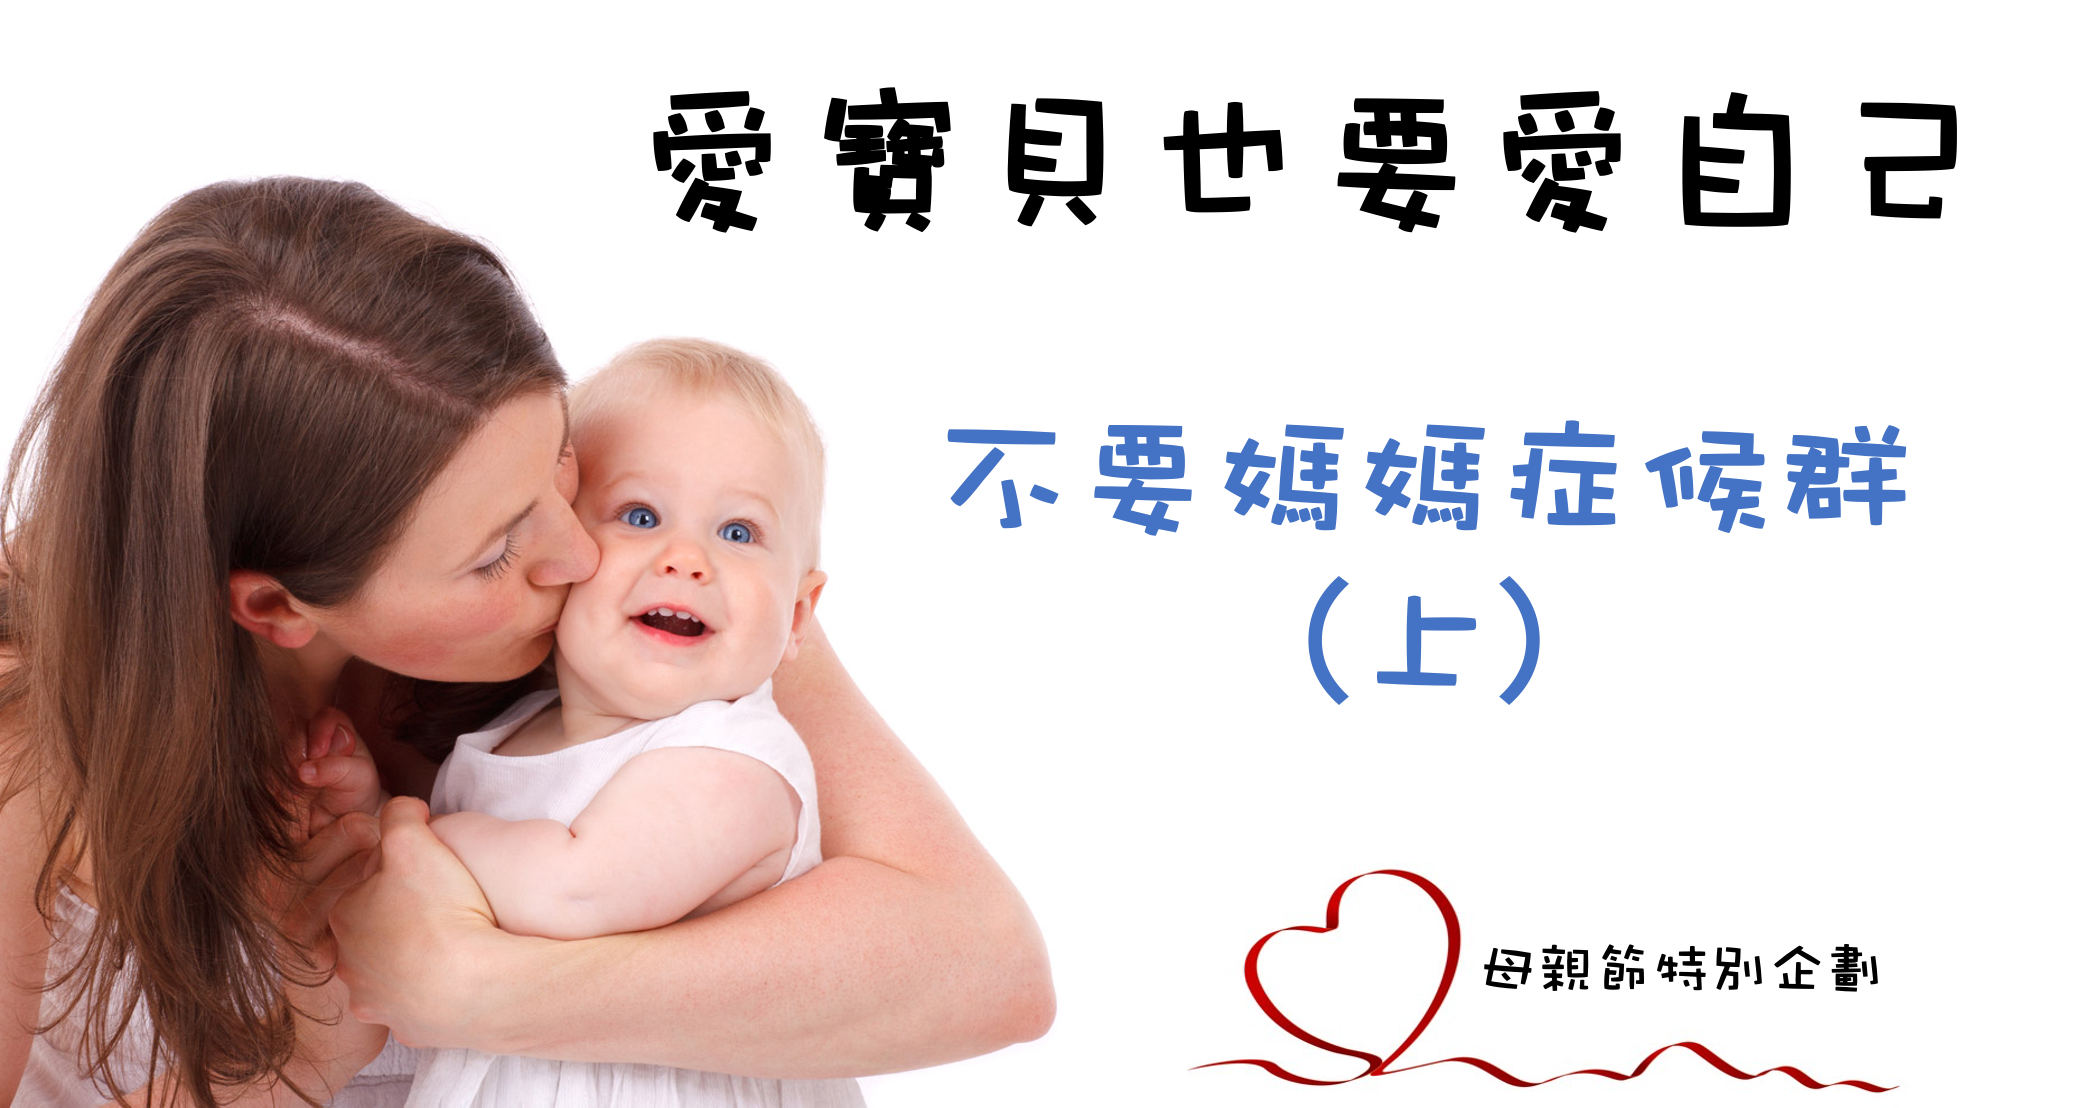
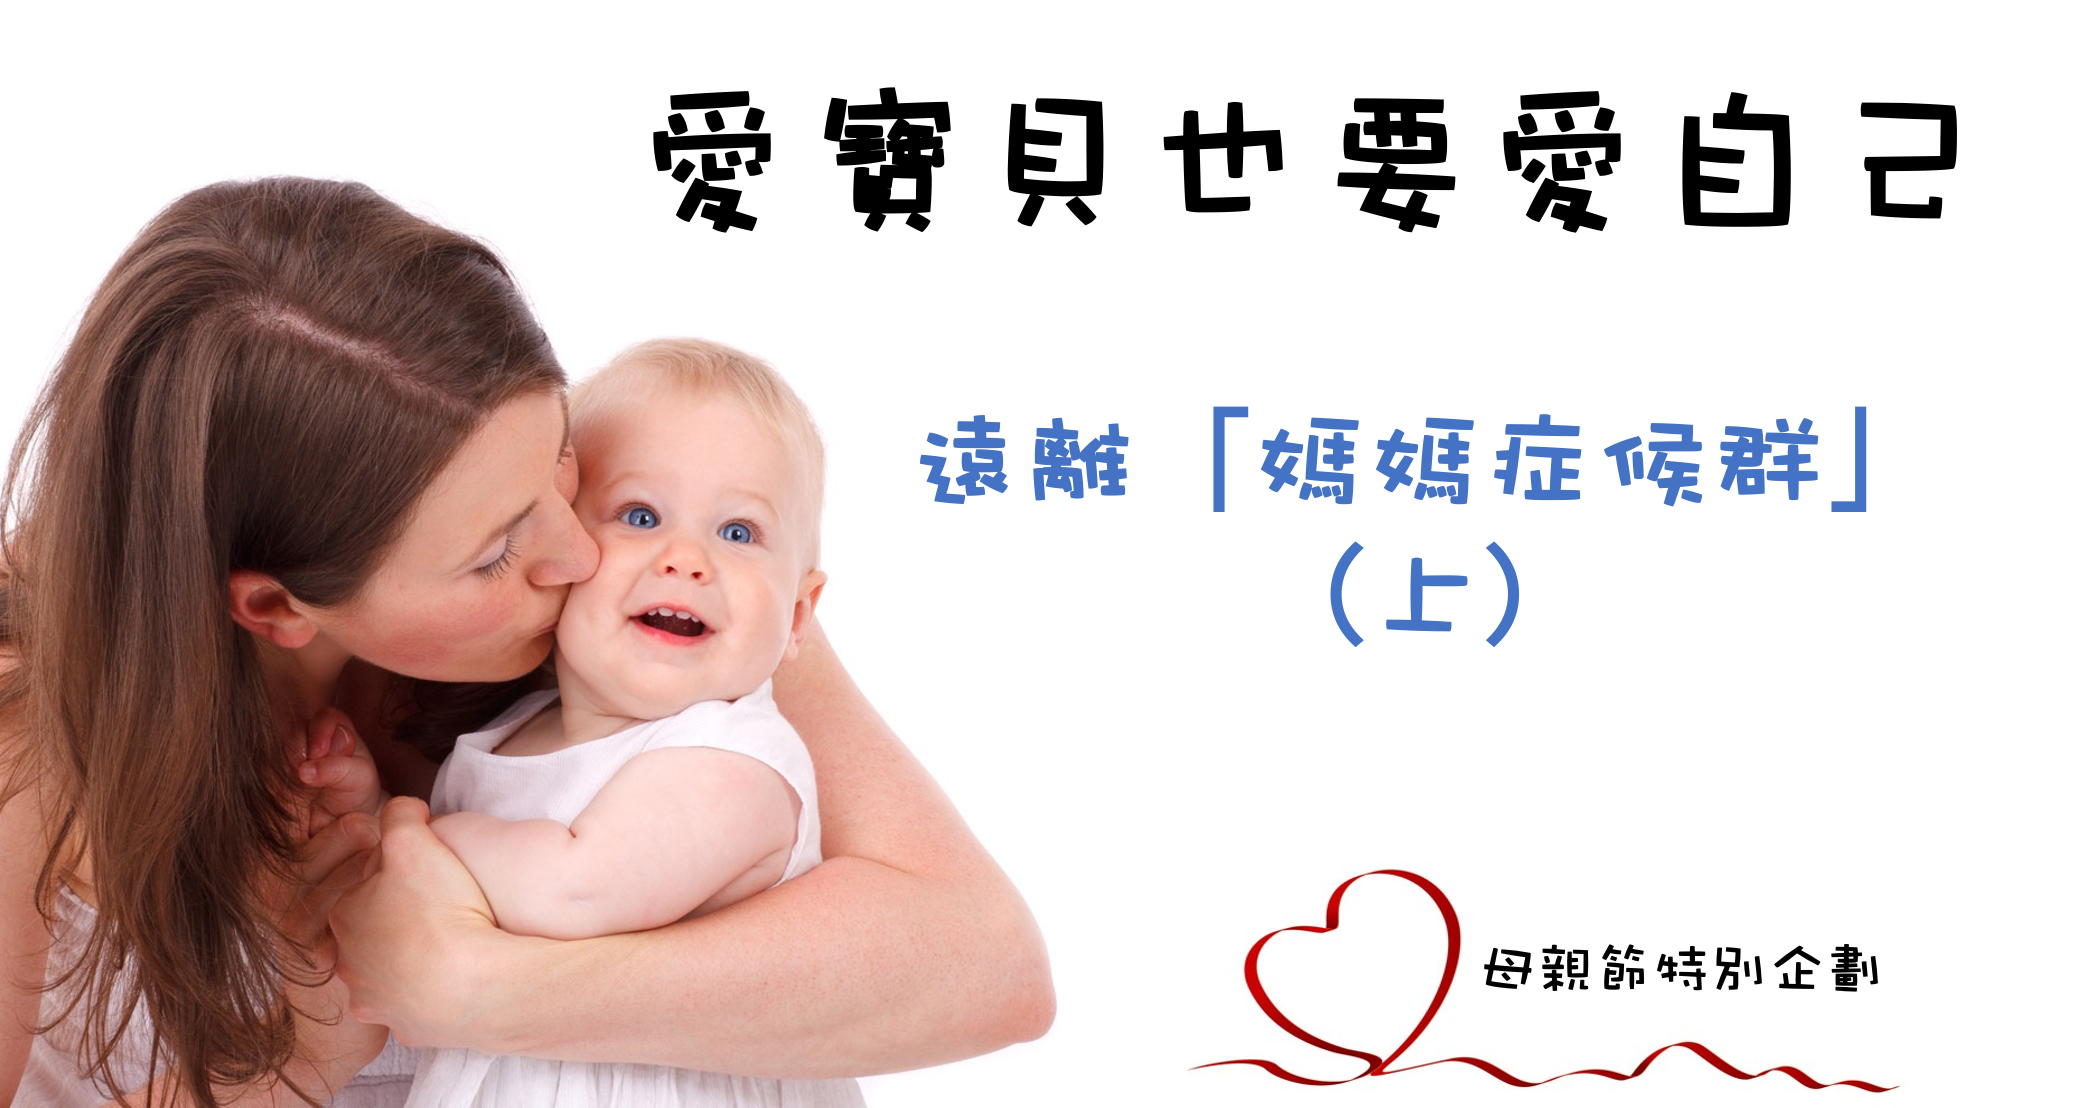
change title page and title

Changed region(s): [[0.4344, 0.3682, 0.9308, 0.6444]]

diff --git a/content/blog/2021-05-06-painless-mother/index.md b/content/blog/2021-05-06-painless-mother/index.md
@@ -1,5 +1,5 @@
 ---
-title: 愛寶貝也要愛自己-不要媽媽症候群（上）
+title: 愛寶貝也要愛自己-遠離「媽媽症候群」（上）
 author: Pei-Yu Yang
 date: '2021-05-06'
 categories:
